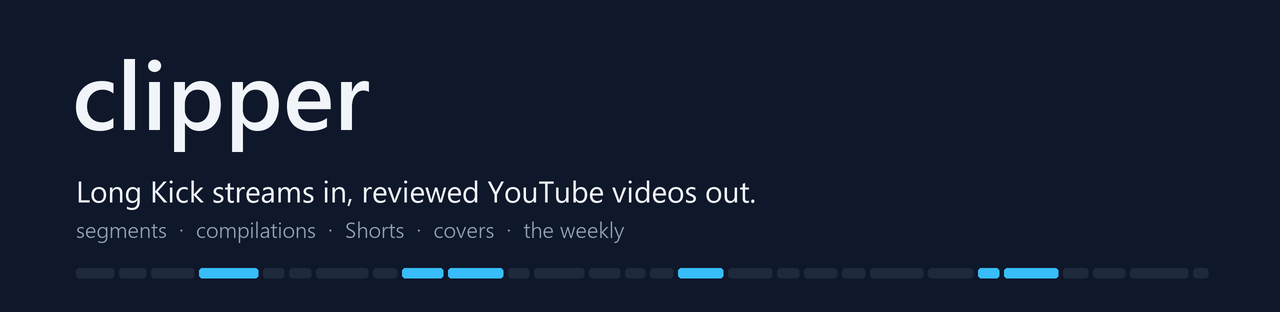
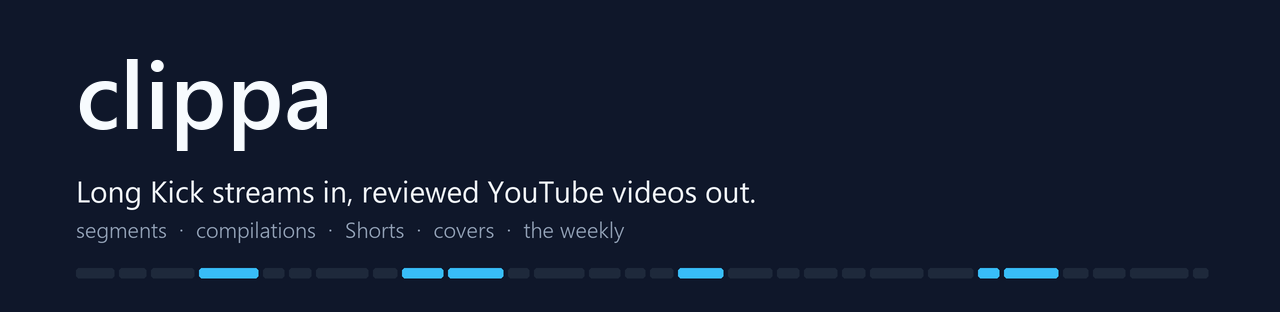
brand: show the app as Clippa (branding only)
War room title, header and manifest, the watch page's default title, the Discord status
card and retake notes, three war room hints, the wiki banner wordmark, Home, the sidebar
and README now say Clippa. The command, package, CLIPPER_* env, config files, containers,
Modal apps, the `clipper:` button ids and the `[clipper]` Kitsu note prefix keep the old
name: old cards and bot notes depend on the last two. HANDOFF says so.

Changed region(s): [[0.0625, 0.1731, 0.3125, 0.4904]]

diff --git a/clipper/web/js/faces.js b/clipper/web/js/faces.js
@@ -97,7 +97,7 @@ function renderPick() {
   $("#tool").innerHTML = `<div class="m-head"><b>Who's this?</b><span style="color:var(--faint);font-size:12px">${esc(FP.ref)} · ${mmss(FP.t)}</span><button class="x" data-close>×</button></div>
     <div class="cv"><div>
       <div class="boxwrap fpwrap" id="fpWrap"><img src="${FP.frame}" alt="" draggable="false">${b ? `<div class="box" style="left:${b.x * 100}%;top:${b.y * 100}%;width:${b.width * 100}%;height:${b.height * 100}%"></div>` : ""}</div>
-      <div class="f" style="font-size:11px;color:var(--faint);margin-top:6px">Drag a box round one face, forehead to chin. clipper finds it in the full-size frame.</div>
+      <div class="f" style="font-size:11px;color:var(--faint);margin-top:6px">Drag a box round one face, forehead to chin. Clippa finds it in the full-size frame.</div>
     </div><div class="form">
       ${FP.busy ? `<div class="f">Looking…</div>` : f ? `
         <div class="fpres"><img src="${f.tile}" alt="the face"><div>

diff --git a/clipper/web/js/review.js b/clipper/web/js/review.js
@@ -212,7 +212,7 @@ function openModal(ref) {
       </div>
       <div class="form">
         <div class="row" id="mActs"></div>
-        <label>Ask for changes (clipper does the retake)</label>
+        <label>Ask for changes (Clippa does the retake)</label>
         <textarea id="fChanges" placeholder="e.g. start 5 s earlier · the thumbnail shows the back of his head · use the cams layout"></textarea>
         <div class="row"><button class="btn warn" id="bChanges">✎ Send retake note</button><button class="btn bad" id="bReject">✕ Reject with this as the reason</button></div>
         <label>YouTube title</label><input id="fTitle" maxlength="100" data-check="title"><div class="warn-line" id="w_title"></div>

diff --git a/clipper/web/js/core.js b/clipper/web/js/core.js
@@ -135,7 +135,7 @@ function renderRetakes() {
       <q>${esc(h.comment)}</q>
       <div class="r-${esc(h.result)}">${h.result === "applied" ? "✓ " + esc(h.summary || h.applied.join("; "))
         : h.result === "unsupported" ? "⚠ " + esc(h.unsupported || "not applied") : h.result === "error" ? "✕ " + esc(h.error) : esc(h.result)}</div></div>`).join("")
-    || `<div class="empty">No retakes yet. Set an item to retake with a note and clipper re-cuts it.</div>`;
+    || `<div class="empty">No retakes yet. Set an item to retake with a note and Clippa re-cuts it.</div>`;
 }
 
 function renderHealth() {

diff --git a/clipper/web/warroom.html b/clipper/web/warroom.html
@@ -10,12 +10,12 @@
 <link rel="manifest" href="/manifest.webmanifest">
 <link rel="icon" href="/icon.svg" type="image/svg+xml">
 <link rel="apple-touch-icon" href="/icon-192.png">
-<title>Clipper War Room</title>
+<title>Clippa War Room</title>
 <link rel="stylesheet" href="warroom.css">
 </head>
 <body>
 <header>
-  <div class="brand">CLIPPER <b>//</b> WAR ROOM</div>
+  <div class="brand">CLIPPA <b>//</b> WAR ROOM</div>
   <div class="clock" id="clock"></div>
   <div class="lives" id="lives"></div>
   <div class="counters" id="counters"></div>

diff --git a/clipper/bot.py b/clipper/bot.py
@@ -254,7 +254,7 @@ class Bot(discord.Client):
                     share_down = time.monotonic()
                     try:
                         user = self.get_user(uid) or await self.fetch_user(uid)
-                        await user.send(f"❌ clipper bot can't read the streams share: {e}")
+                        await user.send(f"❌ The Clippa bot can't read the streams share: {e}")
                     except Exception:
                         log.exception("notify: DM failed")
             except (Exception, SystemExit):  # SystemExit would stop the event loop, and the bot
@@ -475,7 +475,7 @@ class Bot(discord.Client):
         if action == "changes" and self.cfg["retake"]["auto"]:
             try:
                 await asyncio.to_thread(serve.start_retake, self.cfg)
-                note += "; clipper is working on it and will post the new version here"
+                note += "; Clippa is working on it and will post the new version here"
             except ClipperError as e:
                 note += f"; retake not started ({e}); serve's next check will"
         await interaction.followup.send(f"{verb} `{row['short']}` in Kitsu{note}.", ephemeral=True)
@@ -521,7 +521,7 @@ def register_commands(bot: Bot) -> None:  # noqa: C901
                      + (f"\nNext: {nxt['publish_at'][:16].replace('T', ' ')} · {nxt['title']}"
                         if nxt else ""))
         await interaction.followup.send(embed=discord.Embed(
-            title="clipper status", description="\n".join(lines)[:4096], color=0x5865F2))
+            title="Clippa status", description="\n".join(lines)[:4096], color=0x5865F2))
 
     @tree.command(description="Items waiting on a decision, with Kitsu links")
     @app_commands.describe(stream="only this stream", all="every item, decided or not")

diff --git a/clipper/warroom/review.py b/clipper/warroom/review.py
@@ -134,7 +134,7 @@ def do_action(cfg: dict, body: dict) -> dict:
     uid = remember(cfg, action, f"{action} {item.short}",
                    [{"ref": item.ref, "before": before, "values": body.get("values") or {}}])
     if action == "changes" and cfg["retake"]["auto"]:
-        note = "clipper is working on the retake" if start_retake(cfg) else \
+        note = "Clippa is working on the retake" if start_retake(cfg) else \
             "a retake run is going; this one is next"
     return {"row": row_json(item.stream_dir, row), "note": note, "undo": uid}
 

diff --git a/clipper/warroom/httpd.py b/clipper/warroom/httpd.py
@@ -78,7 +78,7 @@ def watch_page(qs: dict) -> bytes:
     src = (qs.get("src") or [""])[0]
     if not src.startswith("/media/"):
         raise ClipperError("no such video")
-    title = html.escape((qs.get("title") or ["clipper"])[0])
+    title = html.escape((qs.get("title") or ["Clippa"])[0])
     try:
         t = float((qs.get("t") or ["0"])[0] or 0)
     except ValueError:   # ?t=abc: from the start

diff --git a/docs/wiki/Home.md b/docs/wiki/Home.md
@@ -1,11 +1,12 @@
 <p align="center">
-  <img src="https://github.com/byvfx/clipper/wiki/images/banner.png" alt="clipper: long Kick streams in, reviewed YouTube videos out" width="100%">
+  <img src="https://github.com/byvfx/clipper/wiki/images/banner.png" alt="Clippa: long Kick streams in, reviewed YouTube videos out" width="100%">
 </p>
 
-**clipper** turns long Kick streams into YouTube uploads: full-length segments, topic
+**Clippa** turns long Kick streams into YouTube uploads: full-length segments, topic
 compilations, Shorts, titles, descriptions, chapters and thumbnails, with a person approving
 every one before it goes out. Everything is a `clipper <stage>` command, and the always-on
-pieces (the recorder, the worker, serve and the Discord bot) run it unattended.
+pieces (the recorder, the worker, serve and the Discord bot) run it unattended. (The app was
+called clipper; the command, package, config files and containers still are.)
 
 > [!TIP]
 > New here? Start with **[Getting started](Getting-started)**: install a machine, run one
@@ -82,7 +83,7 @@ flowchart TB
 </td>
 <td valign="top">
 
-### Working on clipper
+### Working on Clippa
 [Developing](Developing): layout, code shape, checks, and how these pages are built<br>
 [How the processes talk](How-the-processes-talk): locks, heartbeats, the outbox, serve's API, which log to read
 

diff --git a/HANDOFF.md b/HANDOFF.md
@@ -1,4 +1,4 @@
-# Clipper handoff (current state, rewritten 2026-11-08)
+# Clippa handoff (current state, rewritten 2026-11-08)
 
 This file is the **current state** between sessions: what runs where, what the user decided,
 what is waiting on them, open work, recipes, gotchas. Keep it short (under ~300 lines): update
@@ -41,6 +41,10 @@ narrated catch-up cut), `people`, `faces`, `cast`, `speakers`, `narrate` / `perf
 `rumble`, `analytics`, `costs`, `compare` / `models` (other providers), `status`, `services`, `alert`, `doctor`.
 
 ## User decisions (keep)
+- The app is **Clippa** (2026-11-09, branding only): war room, Discord status card, wiki Home/sidebar/banner,
+  README. The `clipper` command, package, `CLIPPER_*` env, config files, containers, Modal apps, the
+  `clipper:` button ids and the `[clipper]` Kitsu note prefix keep the old name on purpose (old cards and
+  notes depend on the last two). A full rename needs both prefixes accepted and the old compose project stopped first.
 - Titles/descriptions/cut points approved as-is; fun descriptions are liked. Long video per recurring topic
   (compilations) plus segments plus short picks. `third_party_audio = "allow_reactions"`,
   `audience_knowledge = "fans"`, Victor/blackjack segments stay; Kino's gambling is commentary, not play

diff --git a/docs/log/2026-11.md b/docs/log/2026-11.md
@@ -1144,3 +1144,13 @@ session's issue 04 notes.
   (wordmark, pitch, a stream timeline with the picked clips lit; drawn with Pillow in Segoe UI, script not
   kept), no emoji in headings/sidebar/footer, no Enquirer colours in the Mermaid diagrams; Developing says to
   keep it plain. Home now links NAS hub and Claude on the NAS. Merged before Copilot's review came in.
+
+## 2026-11-09: the app is Clippa (branding only)
+
+- User toyed with renaming clipper to clippa and chose branding only. Visible name changed: war room title,
+  header and PWA manifest, the watch page's default title, the Discord status card, the "working on it" retake
+  notes, three war room hints, the wiki banner (wordmark redrawn in Segoe UI Semibold 94 over the old one),
+  Home, sidebar and README. Everything machine-facing keeps `clipper`: the command, package, env, config,
+  containers, Modal apps, Discord custom_id `clipper:` and Kitsu `[clipper]` prefix (review.py skips its own
+  notes by it, so renaming it would turn old bot notes into reviewer comments). The rest of the wiki prose still
+  says clipper where it means the command; Home says the command kept the old name.

diff --git a/README.md b/README.md
@@ -1,8 +1,9 @@
-# clipper
+# Clippa
 
 Turns long Kick streams into YouTube uploads: full-length segments, topic compilations,
 Shorts, titles, descriptions, chapters and thumbnails, with a human review step before
-anything goes out.
+anything goes out. The app was called clipper; the `clipper` command, package, config files
+and containers keep that name.
 
 ```
 fetch / record -> signals -> transcribe -> score -> segments -> faces -> cut -> meta -> thumbs -> shorts

diff --git a/docs/wiki/_Sidebar.md b/docs/wiki/_Sidebar.md
@@ -1,4 +1,4 @@
-### [clipper](Home)
+### [Clippa](Home)
 
 **Run it**
 - [Getting started](Getting-started)
@@ -47,6 +47,6 @@
 - [Search swarm](Search-swarm)
 - [Story dossiers](Story-dossiers)
 
-**Working on clipper**
+**Working on Clippa**
 - [Developing](Developing)
 - [How the processes talk](How-the-processes-talk)
